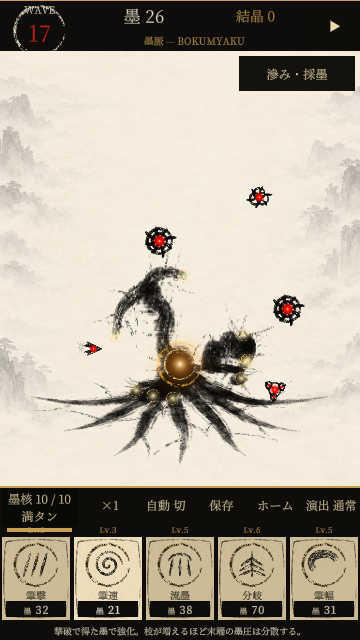
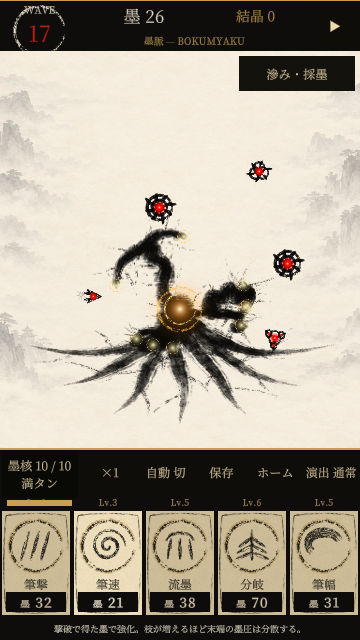
Give growing branches a dense ink core with fibrous edges

diff --git a/UnitySandbox/Assets/BokumyakuPrototype/Presentation/BokumyakuGame.cs b/UnitySandbox/Assets/BokumyakuPrototype/Presentation/BokumyakuGame.cs
@@ -429,9 +429,12 @@ namespace Bokumyaku.Presentation
                 float x0 = (float)parent.ViewX, y0 = (float)parent.ViewY;
                 float x1 = (float)b.ViewX, y1 = (float)b.ViewY;
                 float sx = canvas.width / 384f, sy = canvas.height / 512f;
-                persistentInk.Begin(new InkPoint(x0 * sx, y0 * sy, 0, 1f), brush, unchecked(Run.Seed + b.Id * 7919));
                 // A gently bowed centerline gives the growing branch a living brush gesture.
                 var normal = new Vector2(-(y1-y0), x1-x0).normalized;
+                for(int pass=0;pass<2;pass++)
+                {
+                if(pass==1){brush.texture=InkTexture.Pool;brush.radius*=.52f;brush.roughness=.3f;brush.water=.35f;}
+                persistentInk.Begin(new InkPoint(x0 * sx, y0 * sy, 0, 1f), brush, unchecked(Run.Seed + b.Id * 7919));
                 for (int n = 1; n <= 16; n++)
                 {
                     float t = n / 16f, bow = Mathf.Sin(t * Mathf.PI) * (b.Id % 2 == 0 ? 9f : -9f);
@@ -439,6 +442,7 @@ namespace Bokumyaku.Presentation
                         (Mathf.Lerp(y0, y1, t) + normal.y * bow) * sy, t * .35f, Mathf.Lerp(1f, .45f, t)));
                 }
                 persistentInk.End();
+                }
                 DrawBranchFibers(x0,y0,x1,y1,sx,sy,b.Id);
                 growth[b.Id] = Time.unscaledTime;
             }

diff --git a/docs/STATE.md b/docs/STATE.md
@@ -4,7 +4,7 @@
 ## 現状
 - Unity6000.3.26f1 / URP17.3.0 2D。Brush Lab表示/PNG互換確認済み。
 - 戦場SpriteRenderer、戦闘uGUI/TMP、メニューIMGUI。縦戦場幅100%/高さ62%、下部HUD30%。同梱日本語フォント。
-- 補間、敵5種/6武器演出、SUMI枝/撃破跡の部分更新。根の濃墨層/分岐、ダメージ表示追加。美術は参考画像に未達。
+- 補間、敵5種/6武器演出、SUMI枝/撃破跡の部分更新。根と成長枝の濃墨層/分岐、ダメージ表示追加。美術は参考画像に未達。
 - Runtime/シミュレーション/経済/保存未変更。価格500案はstash保護。
 
 ## 直近の結果
@@ -15,7 +15,7 @@
 - Playerは自動終了。配布版の目視は未実施。非表示Playerのframe数は性能証拠に使わない。
 - UnityがビルドでURP除外情報/Runtime設定/既定Volume/Standalone batchingを生成。変更を保持。
 - 360×640で操作列高44.7px/札68.7×104.2px、主要10ボタンraycast到達。hud-size-check.json/png。
-- 全EditMode255/255合格（今回の時計修正前）。独立read-only QAで停止中の輪郭揺らぎを検出・修正、Material時計25.04041→同値を限定Play確認。v4ビルドは修正前。実機なし。
+- 全EditMode255/255合格（今回の時計修正前）。独立read-only QAで停止中の輪郭揺らぎを検出・修正、Material時計25.04041→同値を限定Play確認。v4ビルドは修正前。直近は枝の濃墨層を限定Play確認（Wave17、全面再構築0）。実機なし。
 
 ## 次の一手
 1. v4クリーンビルドで警告解消、別プロセス復帰600tick一致。173ファイル中171はv3同一、boot.config/resources.assets差分。画面目視とリソース確認を次に実施。

diff --git a/docs/RENDER_REFRESH.md b/docs/RENDER_REFRESH.md
@@ -92,3 +92,6 @@ Fiberの広い掠れ層を残し、同じ曲線へ半径10のPool層を追加。
 
 ### 下側の描画間隔
 核位置を戦場上から72→65%へ変更し、下側の投影係数.56→.70（間隔25%増）。上側/下側の墨スプライト配置も共通CoreScreenDepthから計算。人工80体画像を比較、Renderer316固定。15点で墨面/Project一致、最大誤差2.38e-7 world units。dense-battle-before-spacing.pngとdense-battle-check.png、ink-projection-check.json。シミュレーション/射程/保存未変更。密集の完全な判読性や実機性能の合格ではない。
+
+### 成長枝の濃墨層
+新しい枝を描く時のみ、既存Fiberストロークに半径52%のPool層を同じ曲線で重ねる。根との黒さを揃え、掠れた外縁を保持。seed42/6000tick/Wave17で金の枝先と画面を確認。dirty upload313、全面再構築0。card-art-wave17.png更新。成長判定/保存/Runtime変更なし。形状の完成美術と性能再計測は未達。
